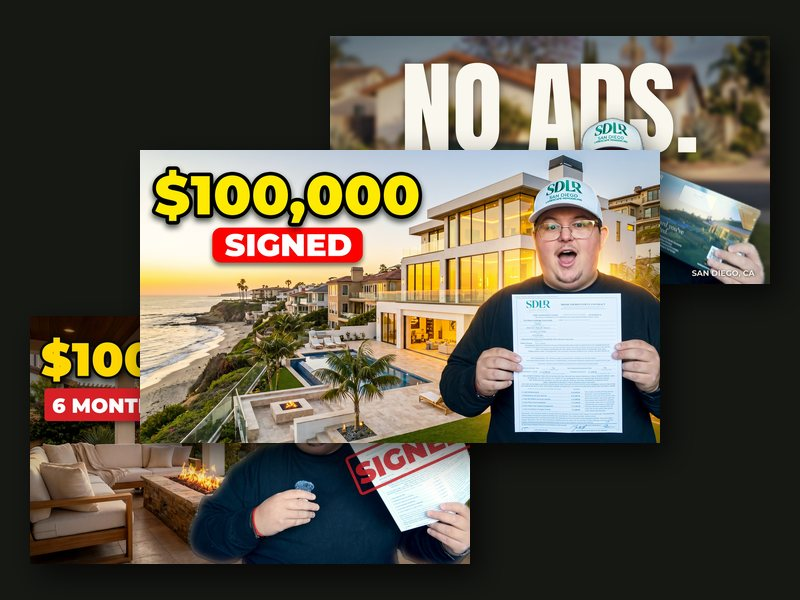
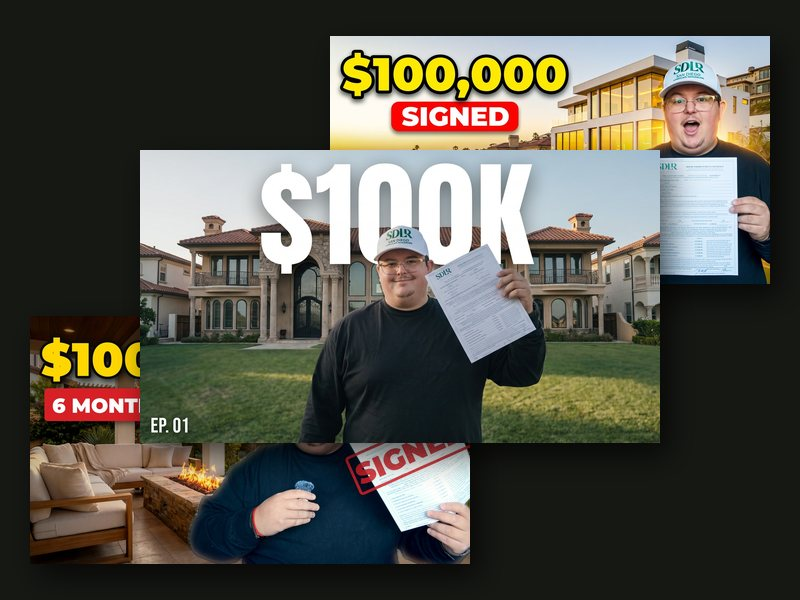
YouTube thumbnails v3: D, Gio's pick ($100K + EP. 01) with a large mansion behind him, made in Magnific; stone-estate alternate; gallery, viewer, Dock

diff --git a/sdlr-youtube-thumbs-v3-2026-11-27.html b/sdlr-youtube-thumbs-v3-2026-11-27.html
@@ -1,0 +1,59 @@
+<!DOCTYPE html>
+<html lang="en">
+<head>
+<meta charset="UTF-8">
+<meta name="viewport" content="width=device-width, initial-scale=1">
+<title>YouTube Thumbnail D · $100K · Mansion</title>
+<link rel="preconnect" href="https://fonts.googleapis.com">
+<link href="https://fonts.googleapis.com/css2?family=Anton&family=Inter:wght@400;500;600&display=swap" rel="stylesheet">
+<style>
+  :root{--bg:#121411;--ink:#eeeae0;--muted:#9da095;--line:rgba(255,255,255,.1)}
+  *{box-sizing:border-box}
+  html,body{margin:0}
+  body{background:var(--bg);color:var(--ink);font:16px/1.6 Inter,-apple-system,Segoe UI,Roboto,sans-serif}
+  .wrap{max-width:1180px;margin:0 auto;padding:40px 16px 80px}
+  .eyebrow{font-size:12px;letter-spacing:.18em;text-transform:uppercase;color:var(--muted);font-weight:600}
+  h1{font-family:Anton,Impact,sans-serif;font-weight:400;font-size:clamp(40px,7vw,72px);line-height:1;margin:10px 0 14px;text-transform:uppercase}
+  h2{font-family:Anton,Impact,sans-serif;font-weight:400;font-size:30px;margin:44px 0 6px;text-transform:uppercase;letter-spacing:.01em}
+  .lede{font-size:18px;color:#d6d3c9;max-width:780px}
+  figure{margin:16px 0 0}
+  figure img{display:block;width:100%;height:auto;border-radius:10px;border:1px solid var(--line)}
+  figcaption{font-size:15px;color:var(--muted);margin-top:10px;max-width:860px}
+  figcaption b{color:var(--ink)}
+  .dl{display:flex;flex-wrap:wrap;gap:10px;margin-top:12px}
+  .dl a{display:inline-block;padding:10px 16px;border-radius:999px;background:var(--ink);color:var(--bg);text-decoration:none;font-weight:600;font-size:14px}
+  ol{max-width:820px;padding-left:22px}
+  li{margin:6px 0}
+</style>
+</head>
+<body>
+<div class="wrap">
+  <div class="eyebrow">YouTube · Episode 01 · Made in Magnific · November 27, 2026</div>
+  <h1>D · $100K in front of the mansion</h1>
+  <p class="lede">Gio’s favourite (the Mint-style “$100K” with the EP. 01 stamp), with a much bigger house behind him.</p>
+
+  <figure>
+    <img src="sdlr-youtube-thumbs/2026-11-27-v3/D-magnific-mansion.jpg" alt="Thumbnail D: giant white $100K behind Gio's head, Gio holding the contract on the lawn of a large Mediterranean mansion, EP. 01 in the corner">
+    <figcaption><b>The one to use.</b> A wide three-story Mediterranean estate behind you. Your pose, the contract and the text are exactly the original’s.</figcaption>
+  </figure>
+  <div class="dl">
+    <a href="sdlr-youtube-thumbs/2026-11-27-v3/D-magnific-mansion.jpg" download>Download D (1280 × 720)</a>
+  </div>
+
+  <h2>Alternate</h2>
+  <figure>
+    <img src="sdlr-youtube-thumbs/2026-11-27-v3/D-alt-magnific-stone-estate.jpg" alt="Alternate: same thumbnail with a tall stone estate behind Gio">
+    <figcaption>Same thumbnail with a taller stone estate behind you.</figcaption>
+  </figure>
+  <div class="dl">
+    <a href="sdlr-youtube-thumbs/2026-11-27-v3/D-alt-magnific-stone-estate.jpg" download>Download alternate</a>
+  </div>
+
+  <h2>Upload</h2>
+  <ol>
+    <li>Use D on its own, or test it in YouTube Studio → Thumbnail → <b>Test &amp; compare</b> (up to three, e.g. D, A and C).</li>
+    <li>YouTube picks the one with the most watch time. Leave it for about two weeks.</li>
+  </ol>
+</div>
+</body>
+</html>

diff --git a/dock-data.js b/dock-data.js
@@ -85,7 +85,7 @@ window.DOCK_ITEMS = [
   { id:'sdlr-model-y-wrap', n:'Model Y Wrap', d:'Company-car wrap design for the Juniper Model Y: newest concept House Car (midnight green flake, one gold SDLR crest per side, phone and website on the back) and Midnight (small gold lettering, monogram badge) plus Duotone, Pergola Shade and the metallic green versions; flat-lay template, print PDF, 3D mockups and realistic street photos', u:'sdlr-model-y-wrap.html', k:'design', g:'wrap', th:'design-thumbs/sdlr-model-y-wrap.jpg', b:['sdlr'], i:'\u{1F697}', c:'#18291F', ours:true, add:'2026-11-21' },
   { id:'sdlr-wrap-siteplan', n:'Wrap Site Plan', d:'Pen-and-ink aerial site plan for the Model Y wrap \u2014 tone-on-tone vector line art across the rear doors and quarter, plus a 4:3 backyard, a Rancho Santa Fe estate and its planted backyard, no wording', u:'sdlr-wrap-siteplan.html', k:'design', g:'wrap', th:'design-thumbs/sdlr-wrap-siteplan.jpg', b:['sdlr'], i:'\u{1F58B}\u{FE0F}', c:'#1E3E33', ours:true, add:'2026-11-19' },
   /* online & video */
-  { id:'sdlr-youtube-thumbs', n:'YouTube Thumbnails', d:'Thumbnails for Gio’s YouTube channel. Episode 01 (first $100K contract): A “$100,000 · 6 months in” with the signed contract, B “NO ADS.” with the door hanger and yard sign, C made in Magnific at a La Jolla oceanfront mansion; test all three in YouTube Test & compare', u:'sdlr-youtube-thumbs.html', k:'design', g:'online', th:'design-thumbs/sdlr-youtube-thumbs.jpg', b:['sdlr','svm'], i:'\u{1F3AC}', c:'#1b1e19', ours:true, s:'preview', p:'free', add:'2026-11-27' },
+  { id:'sdlr-youtube-thumbs', n:'YouTube Thumbnails', d:'Thumbnails for Gio’s YouTube channel. Episode 01 (first $100K contract): newest is D, “$100K” in front of a large mansion (Gio’s pick, made in Magnific); also A “$100,000 · 6 months in”, B “NO ADS.” and C the La Jolla oceanfront mansion', u:'sdlr-youtube-thumbs.html', k:'design', g:'online', th:'design-thumbs/sdlr-youtube-thumbs.jpg', b:['sdlr','svm'], i:'\u{1F3AC}', c:'#1b1e19', ours:true, s:'preview', p:'free', add:'2026-11-27' },
   { id:'sdlr-logo-animations', n:'Logo Animations', d:'Three animated SDLR logo stings for the front and end of videos \u2014 intro and outro, landscape and vertical, ready-to-drop MP4 plus transparent ProRes for laying over footage', u:'sdlr-logo-animations.html', k:'design', g:'online', th:'design-thumbs/sdlr-logo-animations.jpg', b:['sdlr'], i:'\u{1F3AC}', c:'#3a4a2e', ours:true, s:'live', p:'free', add:'2026-11-09' },
   { id:'sdlr-ecard', n:'Digital E-Card', d:'Tap-to-save business card for SDLR', u:'sdlr-ecard.html', k:'design', g:'online', th:'design-thumbs/sdlr-ecard.jpg', b:['sdlr'], i:'💳', c:'#3d3524', ours:true, add:'2026-07-08' },
   { id:'sdlr-deck', n:'1-to-1 Deck', d:'The story, the work and the $200K mortgage play, for networking meetings', u:'sdlr-deck.html', k:'design', g:'online', th:'design-thumbs/sdlr-deck.jpg', b:['sdlr'], i:'🖼', c:'#6b5a3a', ours:true, add:'2026-08-20' },

diff --git a/designs.html b/designs.html
@@ -238,7 +238,7 @@ const DESIGNS = {
     { cat:'wrap', status:'final', ver:'v4', name:'Wrap Site Plan', desc:'The pen-and-ink aerial site plan line art behind the business card and the car wrap: strip, backyard, Rancho Santa Fe estate and planted backyard. No wording.', updated:'November 20, 2026', versions:4, href:'sdlr-wrap-siteplan.html', thumb:'design-thumbs/sdlr-wrap-siteplan.jpg', icon:'\u{1F58B}\u{FE0F}' },
 
     /* ---- Online assets ---- */
-    { cat:'online', status:'review', ver:'v2', name:'YouTube Thumbnails', desc:'Three thumbnails for Gio’s first YouTube video, the first $100K contract: A “$100,000 · 6 months in” with the signed contract, B “NO ADS.” with the door hanger and yard sign, C made in Magnific at a La Jolla oceanfront mansion. To test in YouTube Test & compare. 1280 × 720 JPGs.', updated:'November 27, 2026', versions:2, href:'sdlr-youtube-thumbs.html', thumb:'design-thumbs/sdlr-youtube-thumbs.jpg', icon:'\u{1F3AC}' },
+    { cat:'online', status:'review', ver:'v3', name:'YouTube Thumbnails', desc:'Thumbnails for Gio’s first YouTube video, the first $100K contract. Newest (Gio’s pick): D, “$100K” in front of a large mansion, made in Magnific. Also A “$100,000 · 6 months in”, B “NO ADS.” and C the La Jolla oceanfront mansion. 1280 × 720 JPGs.', updated:'November 27, 2026', versions:3, href:'sdlr-youtube-thumbs.html', thumb:'design-thumbs/sdlr-youtube-thumbs.jpg', icon:'\u{1F3AC}' },
     { cat:'online', status:'final', name:'Logo Animations', desc:'Three animated logo stings, intro and outro, landscape and vertical: MP4 plus transparent ProRes for video edits.', updated:'November 15, 2026', versions:2, href:'sdlr-logo-animations.html', thumb:'design-thumbs/sdlr-logo-animations.jpg', icon:'\u{1F3AC}' },
     { cat:'online', status:'final', ver:'v1', name:'Digital E-Card', desc:'Shareable contact card: tap to call, email or save the contact.', updated:'July 8, 2026', versions:1, href:'sdlr-ecard.html', thumb:'design-thumbs/sdlr-ecard.jpg', icon:'\u{1F4B3}' },
     { cat:'online', name:'1-to-1 Deck', desc:'The story, the work and the $200K mortgage play, for networking meetings.', updated:'August 20, 2026', versions:1, href:'sdlr-deck.html', thumb:'design-thumbs/sdlr-deck.jpg', icon:'\u{1F5BC}\u{FE0F}' },

diff --git a/sdlr-youtube-thumbs.html b/sdlr-youtube-thumbs.html
@@ -19,6 +19,7 @@
 const VIEWER = { title:'YouTube Thumbnails', company:'sdlr', section:'online', frameBg:'#121411', status:'review' };
 const VERSIONS = [
   { date: '2026-11-27', label: 'Friday, November 27, 2026', items: [
+    { file: 'sdlr-youtube-thumbs-v3-2026-11-27.html', name: 'Version 3 \u00b7 D, $100K + mansion (Gio\u2019s pick)', note: 'Gio\u2019s favourite: the Mint-style \u201c$100K\u201d with the EP. 01 stamp, edited in Magnific to put a large Mediterranean mansion behind him; his figure, contract and text kept from the original. Plus a stone-estate alternate' },
     { file: 'sdlr-youtube-thumbs-v2-2026-11-27.html', name: 'Version 2 \u00b7 C, made in Magnific', note: 'Thumbnail C from Magnific (Nano Banana Pro) using Gio\u2019s real frame: \u201c$100,000 / SIGNED\u201d at a La Jolla oceanfront mansion above the beach, plus an ocean-terrace alternate. Upload with A and B to test all three' },
     { file: 'sdlr-youtube-thumbs-v1-2026-11-27.html', name: 'Version 1 · Episode 01, $100K deal', note: 'Two thumbnails to A/B test with YouTube Test & compare: A “$100,000 · 6 months in” with the signed contract (Tigran Gertz style), B “NO ADS.” with the door hanger and yard sign (Mint style). Real frames from the edit; 1280 × 720 JPGs' }
   ]}

diff --git a/index.html b/index.html
@@ -305,7 +305,7 @@
 </form></dialog>
 <div class="toast" id="toast"></div>
 
-<script src="dock-data.js?v=79"></script>
+<script src="dock-data.js?v=80"></script>
 <script>
 /* ============ STATE ============ */
 const BIZ = window.DOCK_BIZ, BASE = window.DOCK_ITEMS;
